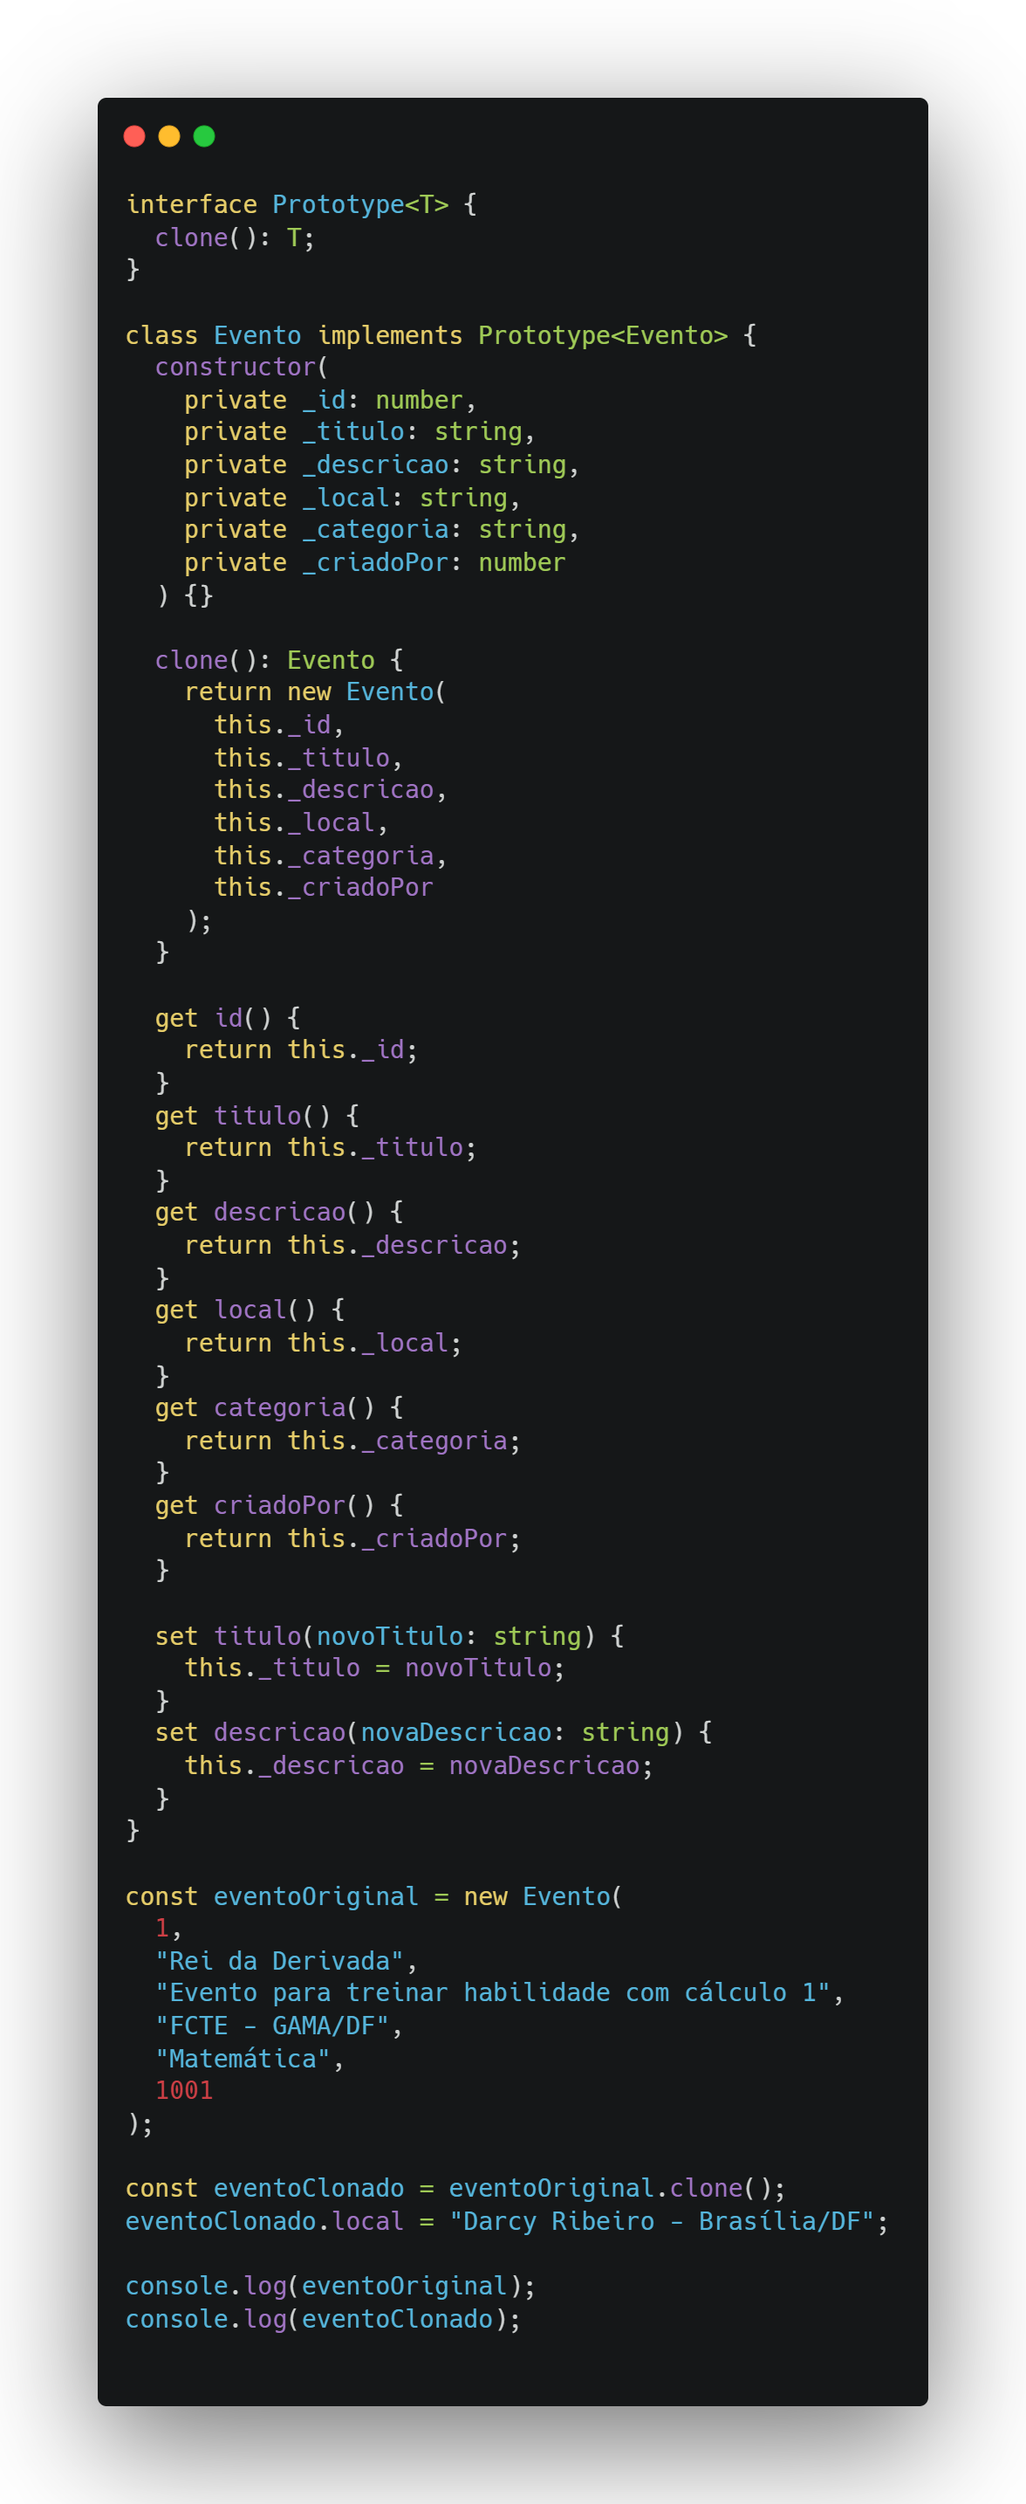
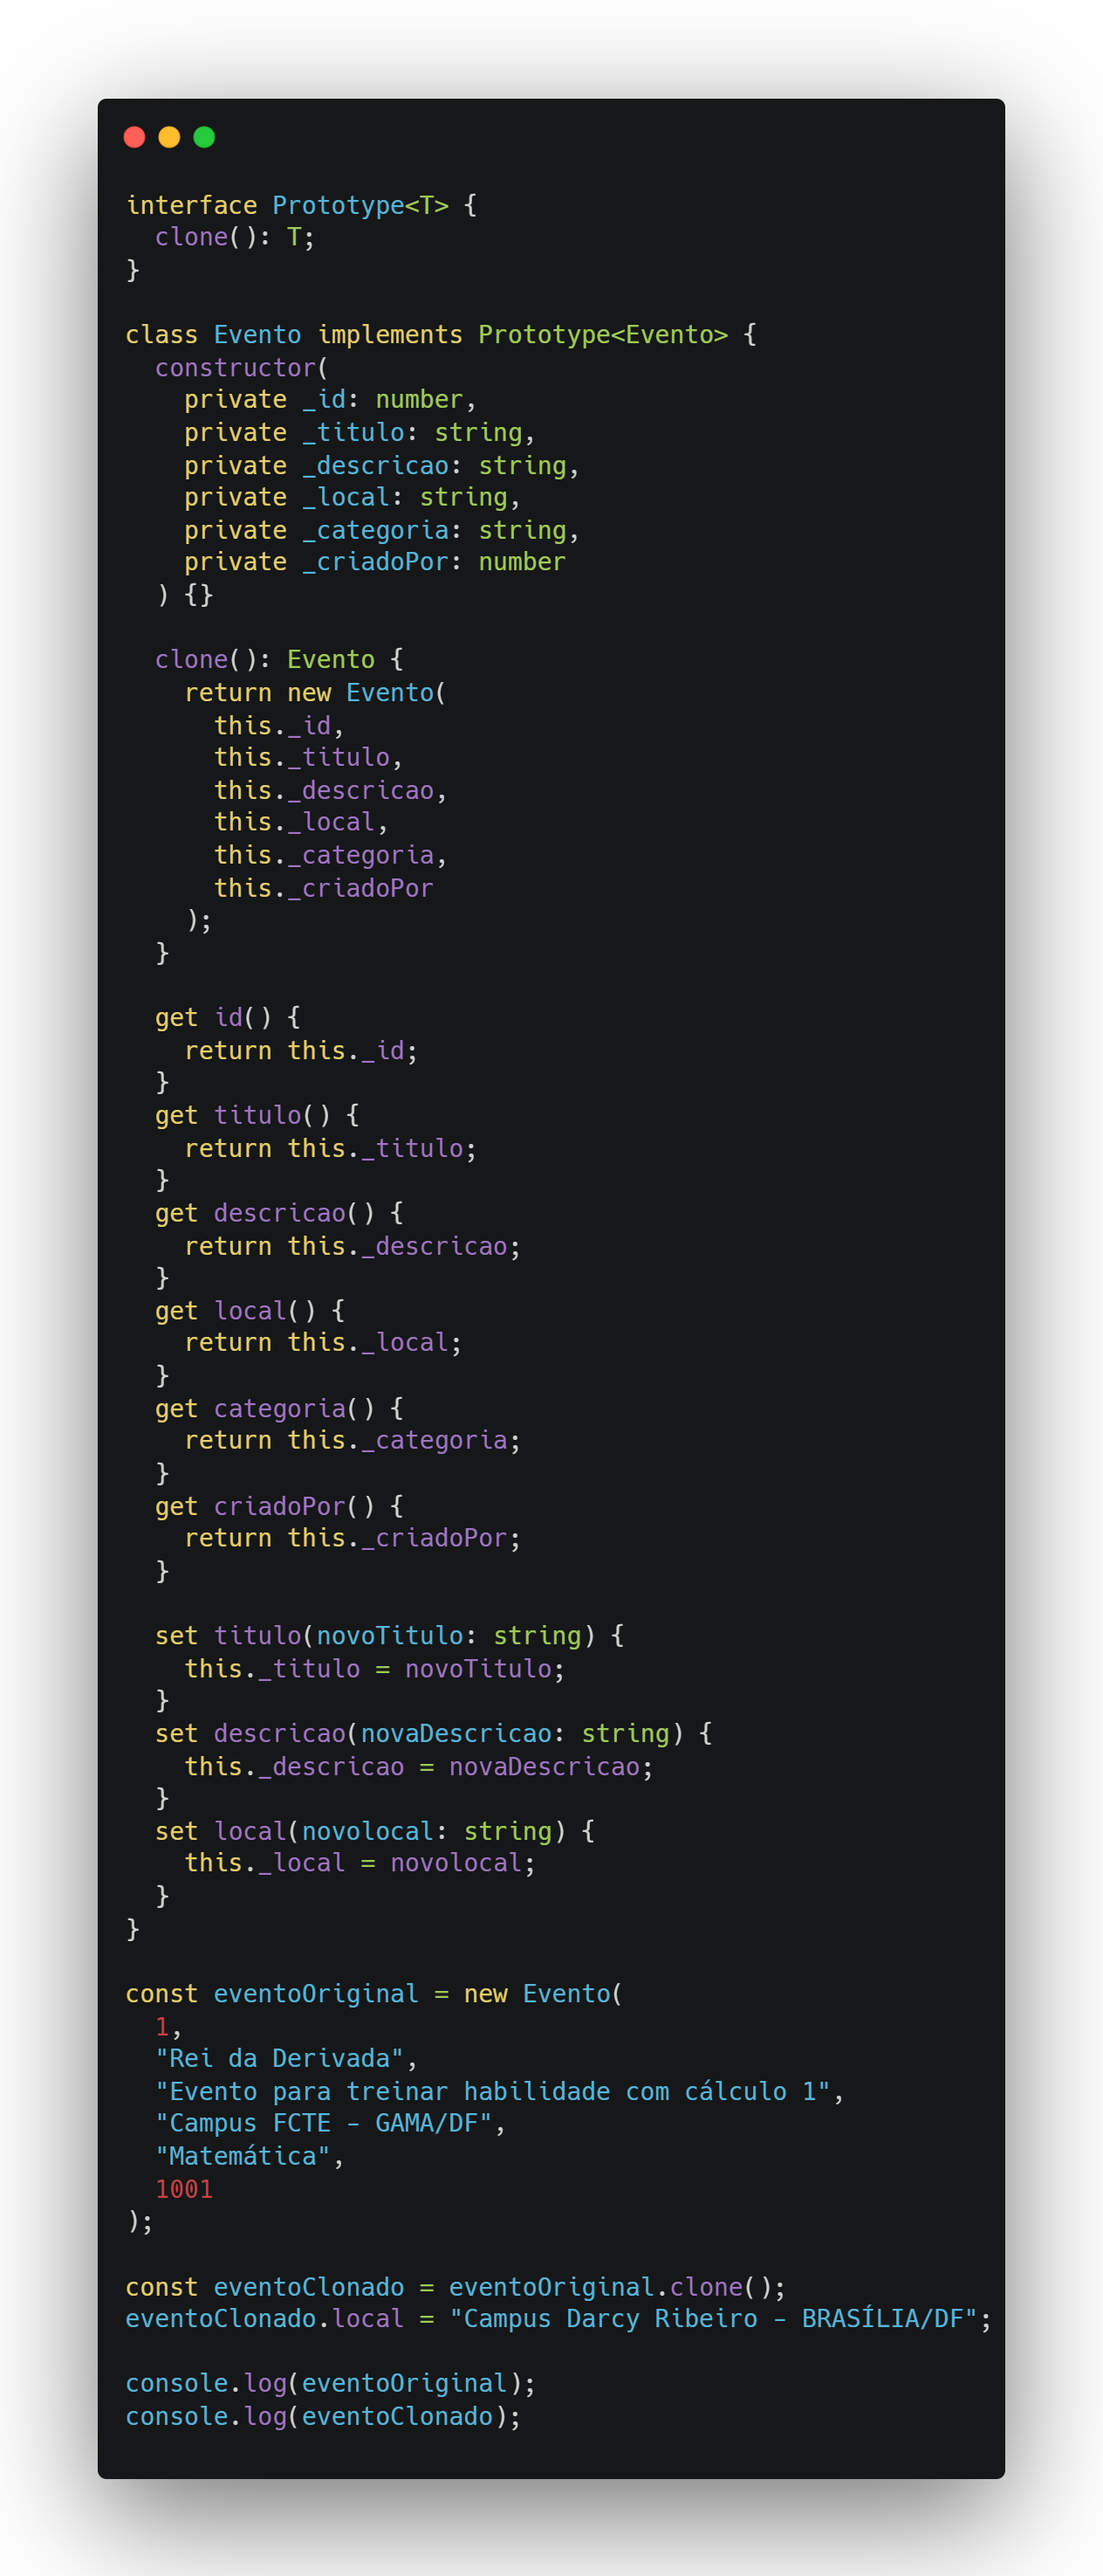
feat(prototype): adicionando implementação e texto introdutório

diff --git a/docs/assets/codigo/prototype.ts b/docs/assets/codigo/prototype.ts
@@ -48,19 +48,22 @@ class Evento implements Prototype<Evento> {
   set descricao(novaDescricao: string) {
     this._descricao = novaDescricao;
   }
+  set local(novolocal: string) {
+    this._local = novolocal;
+  }
 }
 
 const eventoOriginal = new Evento(
   1,
-  "Game Dev Summit",
-  "Evento para desenvolvedores de jogos",
-  "São Paulo",
-  "Tecnologia",
+  "Rei da Derivada",
+  "Evento para treinar habilidade com cálculo 1",
+  "Campus FCTE - GAMA/DF",
+  "Matemática",
   1001
 );
 
 const eventoClonado = eventoOriginal.clone();
-eventoClonado.titulo = "Game Dev Summit - Edição RJ";
+eventoClonado.local = "Campus Darcy Ribeiro - BRASÍLIA/DF";
 
-console.log("Evento Original:", eventoOriginal);
-console.log("Evento Clonado:", eventoClonado);
+console.log(eventoOriginal);
+console.log(eventoClonado);
